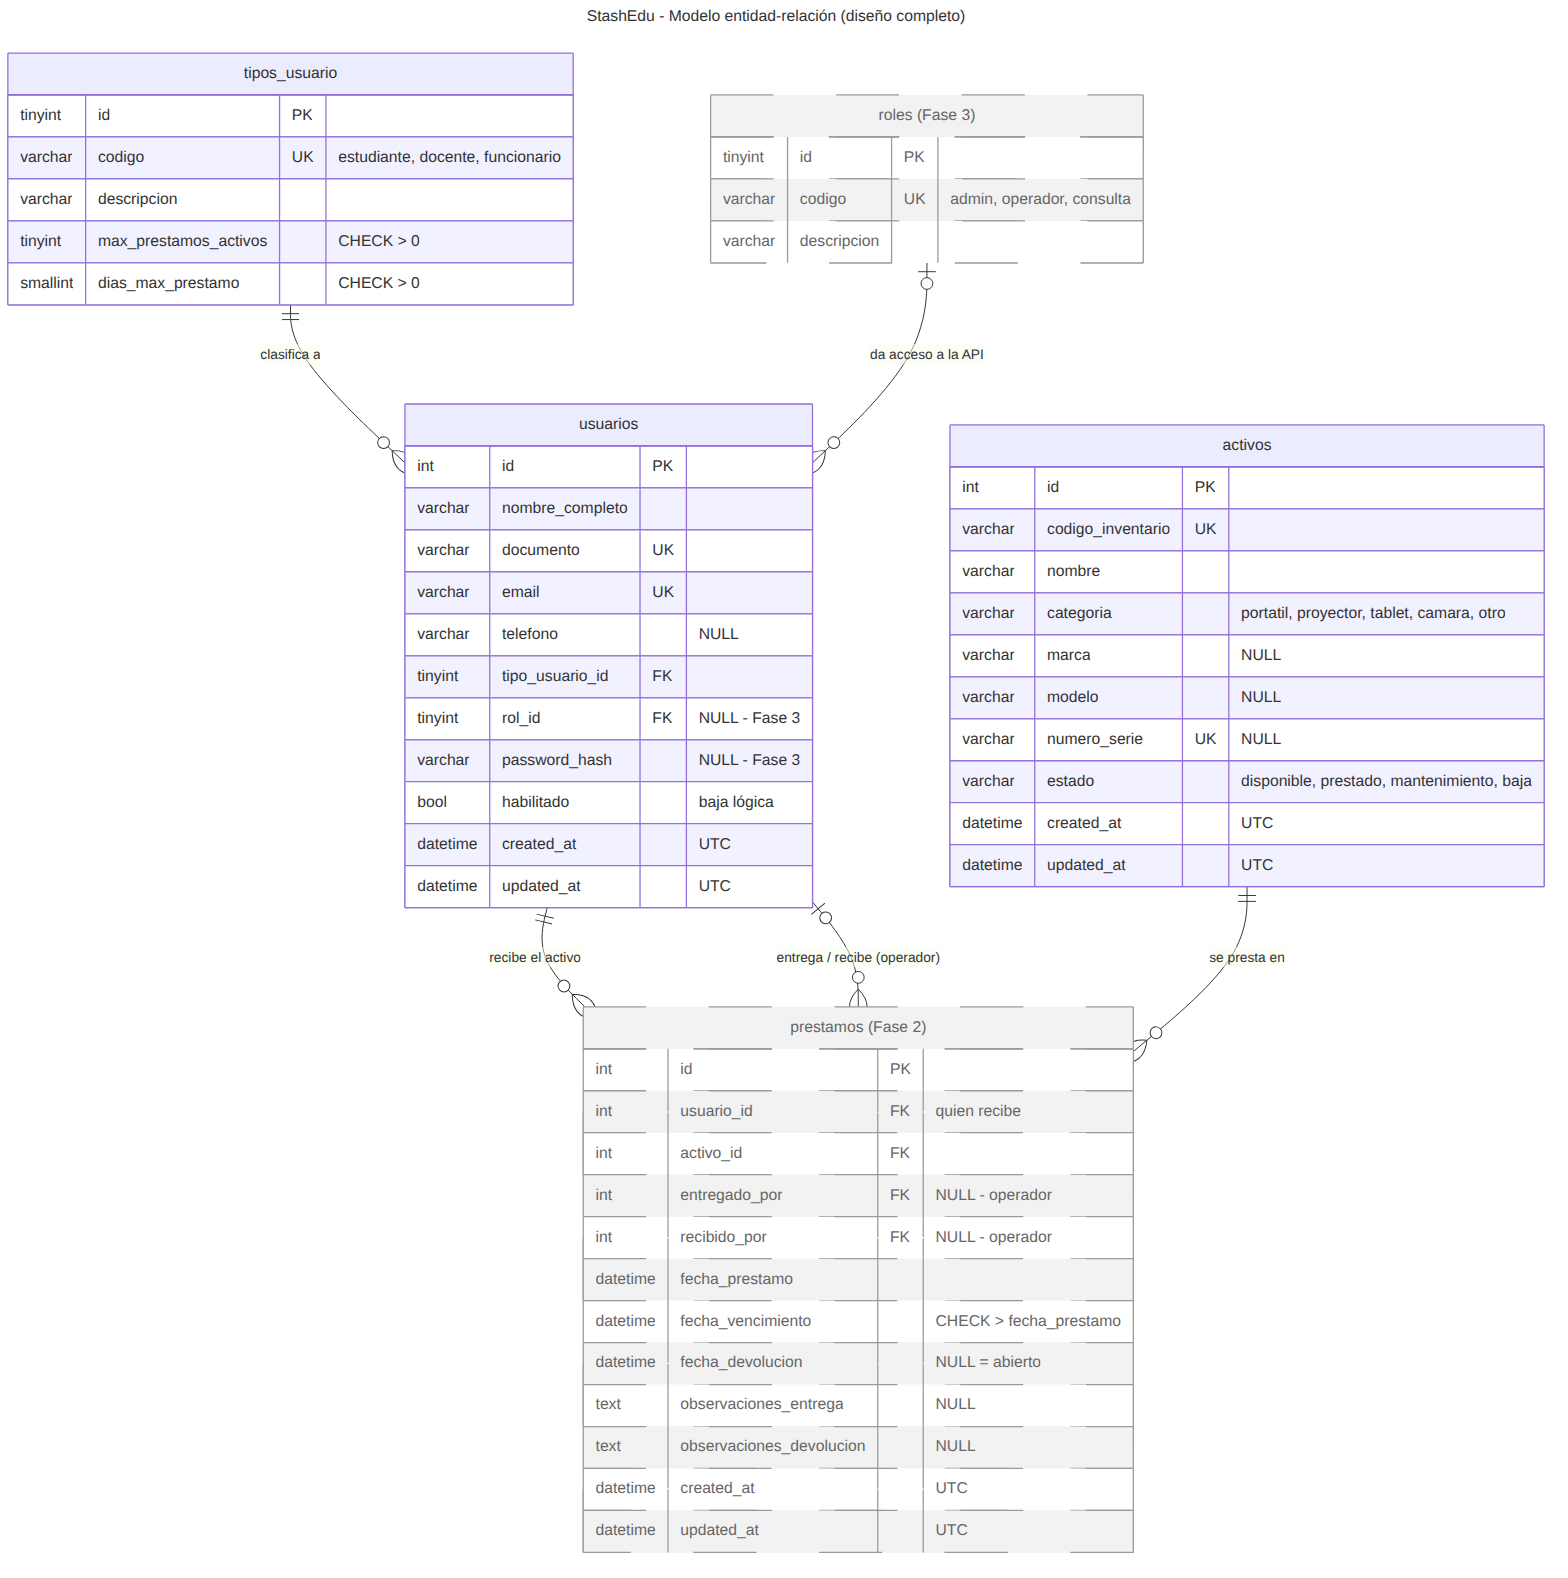
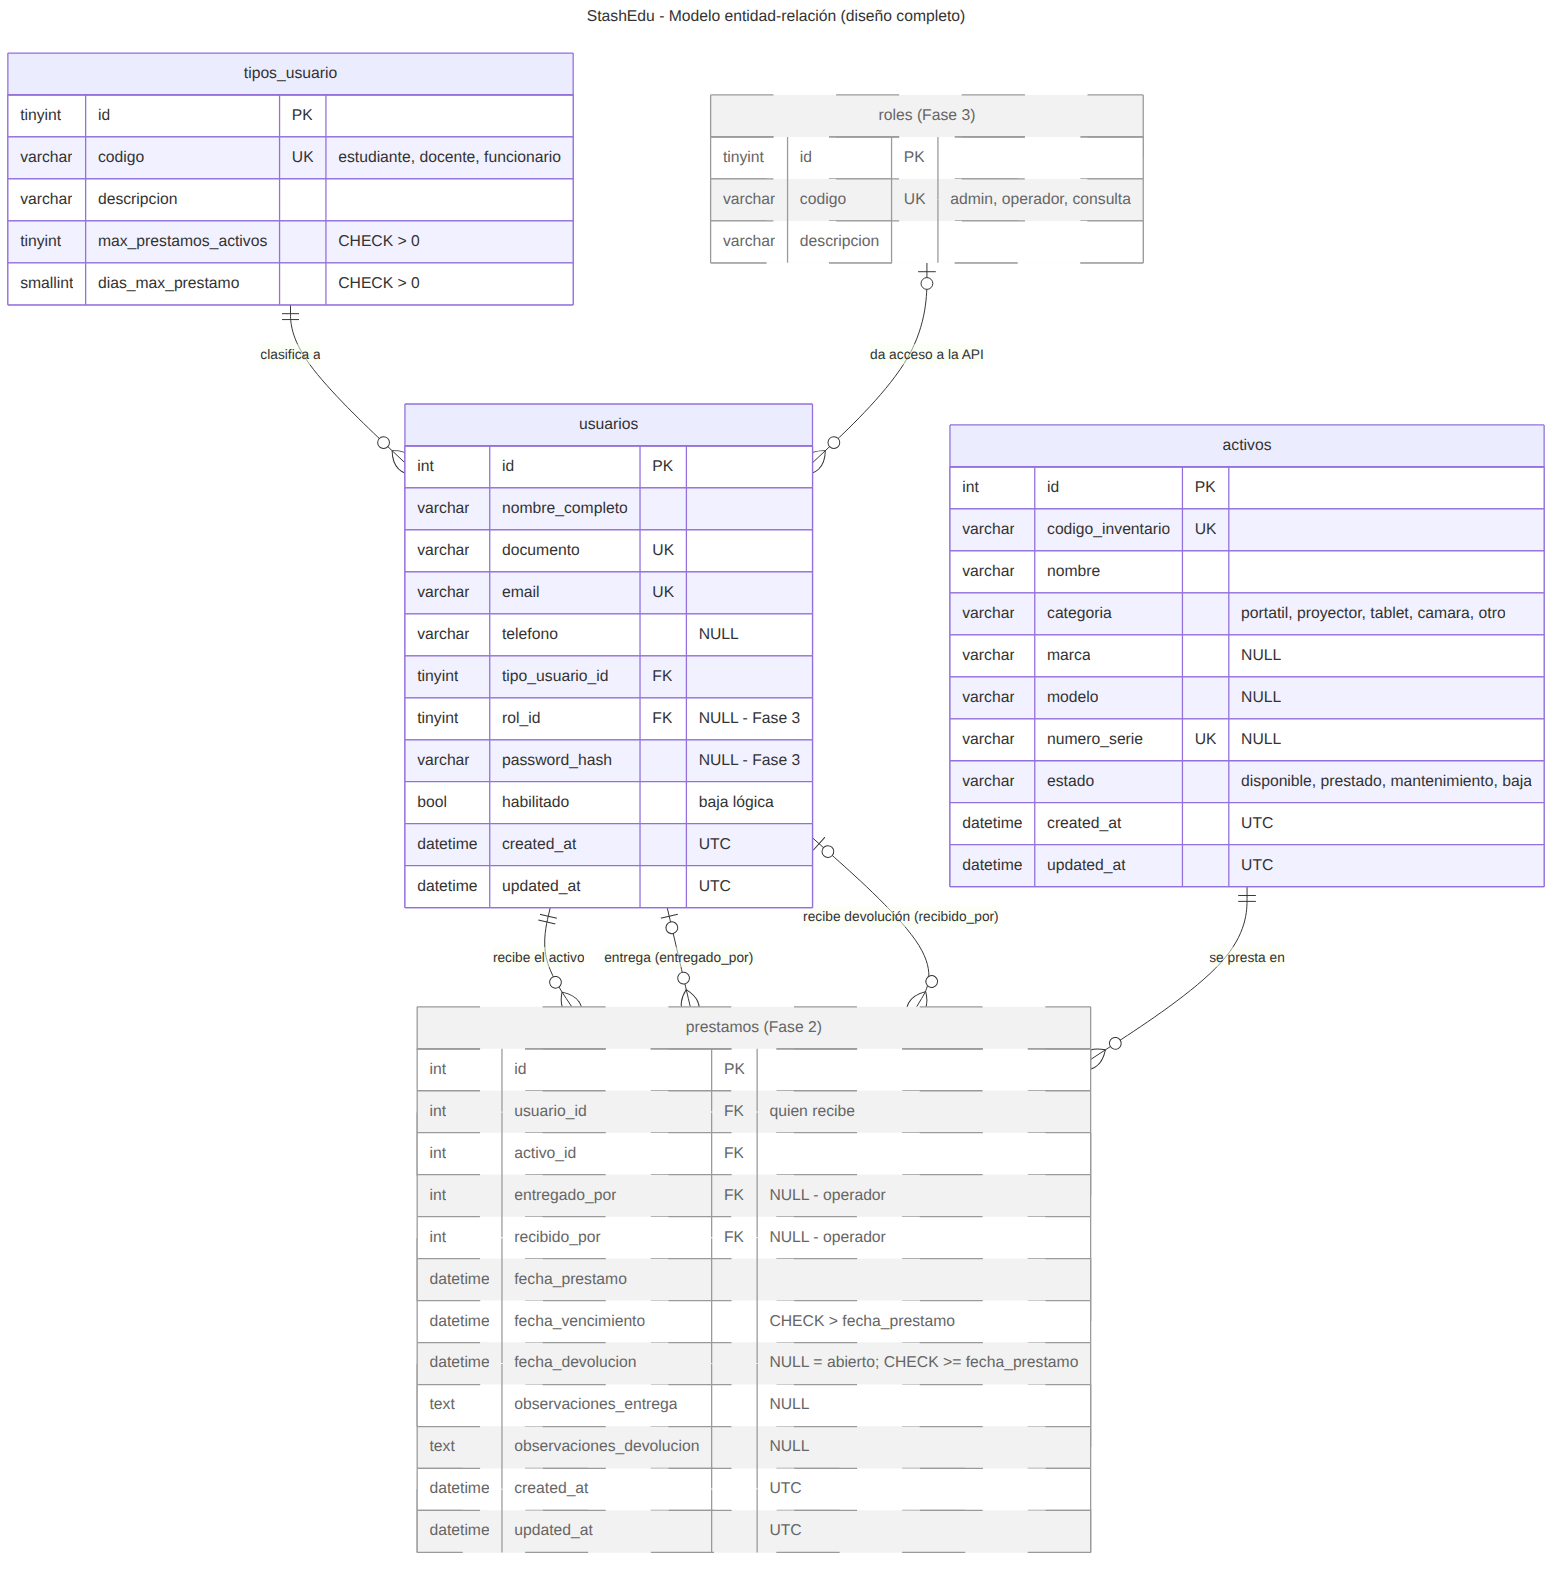
updating readme, describe the implementation

diff --git a/README.md b/README.md
@@ -1,1 +1,196 @@
 # StashEdu
+
+API REST para gestionar el préstamo de activos tecnológicos (portátiles, proyectores,
+tablets, cámaras…) de una institución educativa a estudiantes, docentes y funcionarios.
+
+> **Estado actual: Fase 1 — API básica.** Incluye la configuración de Flask, la conexión a
+> MySQL/MariaDB, los modelos y el CRUD de usuarios y de activos.
+
+## Requisitos
+
+- Python 3.11 o superior.
+- MySQL 8.0.16+ o MariaDB 10.2.1+
+- curl o Postman para probar la API.
+
+## Instalación
+
+### 1. Clonar el repositorio e instalar las dependencias
+
+```bash
+git clone <url-del-repositorio>
+cd StashEdu
+python -m venv .venv
+source .venv/bin/activate          # Windows: .venv\Scripts\activate
+pip install -r requirements.txt
+```
+
+### 2. Crear la base de datos y un usuario para la aplicación
+
+Con una cuenta administradora de MySQL/MariaDB, crea la base de datos vacía:
+
+```bash
+mariadb -u root -p < sql/01_configuracion.sql     # o: sudo mariadb < sql/01_configuracion.sql
+```
+
+Luego crea un usuario propio para la aplicación, con permisos solo sobre esa base
+(la aplicación no debe conectarse como `root`):
+
+```sql
+CREATE USER 'stashedu'@'localhost' IDENTIFIED BY 'tu_contraseña';
+GRANT ALL PRIVILEGES ON prestamos_activos.* TO 'stashedu'@'localhost';
+FLUSH PRIVILEGES;
+```
+
+### 3. Configurar las variables de entorno
+
+```bash
+cp .env.example .env               # Windows: copy .env.example .env
+```
+
+Edita `.env` con tus datos:
+
+| Variable | Ejemplo | Descripción |
+|---|---|---|
+| `DB_HOST` | `localhost` | Servidor de base de datos |
+| `DB_PORT` | `3306` | Puerto |
+| `DB_USER` | `stashedu` | Usuario creado en el paso 2 |
+| `DB_PASSWORD` | `tu_contraseña` | Si tiene espacios o `#`, escríbela entre comillas: `"mi #clave"` |
+| `DB_NAME` | `prestamos_activos` | Nombre de la base de datos |
+| `FLASK_DEBUG` | `1` | `1` recarga el servidor al guardar cambios (solo en desarrollo) |
+
+El archivo `.env` contiene credenciales y **no se sube al repositorio**.
+
+### 4. Crear las tablas con las migraciones
+
+```bash
+flask --app run db upgrade
+```
+
+Crea las tablas `tipos_usuario`, `usuarios` y `activos`, e inserta los tipos de usuario:
+`1 = estudiante`, `2 = docente` y `3 = funcionario`.
+
+### 5. Ejecutar la API
+
+```bash
+python run.py
+```
+
+La API queda disponible en `http://127.0.0.1:5000/api/v1`.
+
+## Probar la Fase 1
+
+### Comprobación rápida
+
+```bash
+curl http://127.0.0.1:5000/api/v1/health
+```
+
+Debe responder `200` con `{"status": "ok", "database": "connected"}`. Si responde `503`,
+la API está encendida pero no llega a la base de datos (revisa el paso 3).
+
+### Endpoints
+
+Todas las rutas comienzan con `/api/v1`.
+
+| Método | Ruta | Descripción | Éxito |
+|---|---|---|---|
+| GET | `/health` | Estado de la API y de la conexión a la base de datos | 200 |
+| GET | `/tipos-usuario` | Catálogo de tipos de usuario | 200 |
+| GET | `/usuarios` | Listar usuarios. Filtros: `?tipo_usuario_id=1&habilitado=true` | 200 |
+| GET | `/usuarios/{id}` | Ver un usuario | 200 |
+| POST | `/usuarios` | Crear un usuario | 201 |
+| PUT | `/usuarios/{id}` | Actualizar un usuario (exige los campos obligatorios) | 200 |
+| PATCH | `/usuarios/{id}` | Actualizar solo algunos campos | 200 |
+| DELETE | `/usuarios/{id}` | Deshabilitar un usuario (baja lógica) | 204 |
+| GET | `/activos` | Listar activos. Filtros: `?estado=disponible&categoria=portatil` | 200 |
+| GET | `/activos/{id}` | Ver un activo | 200 |
+| POST | `/activos` | Crear un activo | 201 |
+| PUT | `/activos/{id}` | Actualizar un activo (exige los campos obligatorios) | 200 |
+| PATCH | `/activos/{id}` | Actualizar solo algunos campos | 200 |
+| DELETE | `/activos/{id}` | Dar de baja un activo (pasa a estado `baja`) | 204 |
+
+Los listados admiten paginación con `?page=1&per_page=10` (máximo 100 por página).
+
+**Campos de un usuario:** `nombre_completo`\*, `documento`\*, `email`\*, `tipo_usuario_id`\*,
+`telefono`, `habilitado`.
+
+**Campos de un activo:** `codigo_inventario`\*, `nombre`\*, `categoria`\*, `marca`, `modelo`,
+`numero_serie`, `estado`.
+
+- `categoria`: `portatil`, `proyector`, `tablet`, `camara` u `otro`.
+- `estado`: `disponible` (por defecto), `mantenimiento` o `baja`. El estado `prestado` lo
+  asignarán los préstamos (Fase 2) y no se puede poner a mano.
+
+(\*) obligatorio.
+
+### Ejemplos con curl
+
+```bash
+# Crear un usuario (tipo 2 = docente)
+curl -X POST http://127.0.0.1:5000/api/v1/usuarios \
+  -H "Content-Type: application/json" \
+  -d '{"nombre_completo": "Ana Pérez", "documento": "1001", "email": "ana@uni.edu.co", "tipo_usuario_id": 2}'
+
+# Crear un activo
+curl -X POST http://127.0.0.1:5000/api/v1/activos \
+  -H "Content-Type: application/json" \
+  -d '{"codigo_inventario": "INV-001", "nombre": "Portátil Lenovo T14", "categoria": "portatil", "numero_serie": "SN-A1"}'
+
+# Listar los portátiles disponibles
+curl "http://127.0.0.1:5000/api/v1/activos?estado=disponible&categoria=portatil"
+
+# Pasar el activo 1 a mantenimiento
+curl -X PATCH http://127.0.0.1:5000/api/v1/activos/1 \
+  -H "Content-Type: application/json" \
+  -d '{"estado": "mantenimiento"}'
+
+# Deshabilitar el usuario 1
+curl -X DELETE http://127.0.0.1:5000/api/v1/usuarios/1
+```
+
+### Con Postman
+
+1. Crea una variable `base_url` con el valor `http://127.0.0.1:5000/api/v1`.
+2. Usa URLs como `{{base_url}}/usuarios`.
+3. En `POST`, `PUT` y `PATCH`, elige **Body → raw → JSON**; Postman añade el encabezado
+   `Content-Type: application/json`.
+
+### Casos de error para probar
+
+| Caso | Petición | Respuesta esperada |
+|---|---|---|
+| Faltan campos obligatorios | `POST /usuarios` con `{"nombre_completo": "Ana"}` | 400 y la lista de campos faltantes |
+| Cuerpo que no es JSON | `POST /usuarios` con texto plano | 400 |
+| Correo inválido | `"email": "ana-sin-arroba"` | 400 |
+| Tipo de usuario inexistente | `"tipo_usuario_id": 99` | 400 |
+| Documento o correo repetido | Crear dos veces el mismo usuario | 409 |
+| Correo repetido con otras mayúsculas | `ANA@UNI.EDU.CO` si ya existe `ana@uni.edu.co` | 409 |
+| Categoría inválida | `"categoria": "nevera"` | 400 y los valores permitidos |
+| Estado reservado | `PATCH /activos/1` con `{"estado": "prestado"}` | 400 |
+| Código de inventario repetido | Crear dos veces el mismo activo | 409 |
+| Filtro inválido | `GET /activos?estado=roto` | 400 |
+| Recurso inexistente | `GET /usuarios/9999` | 404 |
+| Método no permitido | `POST /activos/1` | 405 |
+| Base de datos apagada | Cualquier petición con MySQL/MariaDB detenido | 503 |
+
+### Formato de las respuestas
+
+- Un recurso se devuelve como objeto JSON. Las fechas están en UTC (terminan en `Z`).
+- Los listados devuelven `{"data": [...], "meta": {"page", "per_page", "total", "pages"}}`.
+- Los errores siempre tienen la forma `{"error": "mensaje"}`, a veces con `"detalles"`.
+
+## Solución de problemas
+
+| Síntoma | Causa probable |
+|---|---|
+| `/health` responde 503 | El servidor de base de datos está apagado o los datos de `.env` son incorrectos |
+| `Access denied for user` | Usuario, contraseña o host incorrectos en `.env` |
+| `Unknown database 'prestamos_activos'` | Falta el paso 2 |
+| `Table ... doesn't exist` | Falta `flask --app run db upgrade` (paso 4) |
+| `Can't locate revision ...` | La base fue creada con migraciones antiguas: bórrala (`DROP DATABASE prestamos_activos;`) y repite los pasos 2 y 4 |
+
+## Documentación
+
+- [`docs/diagrama_er.png`](docs/diagrama_er.png): modelo entidad-relación.
+- [`docs/esquema_bd.sql`](docs/esquema_bd.sql): diseño completo de la base de datos
+  (referencia; las tablas se crean con las migraciones).
